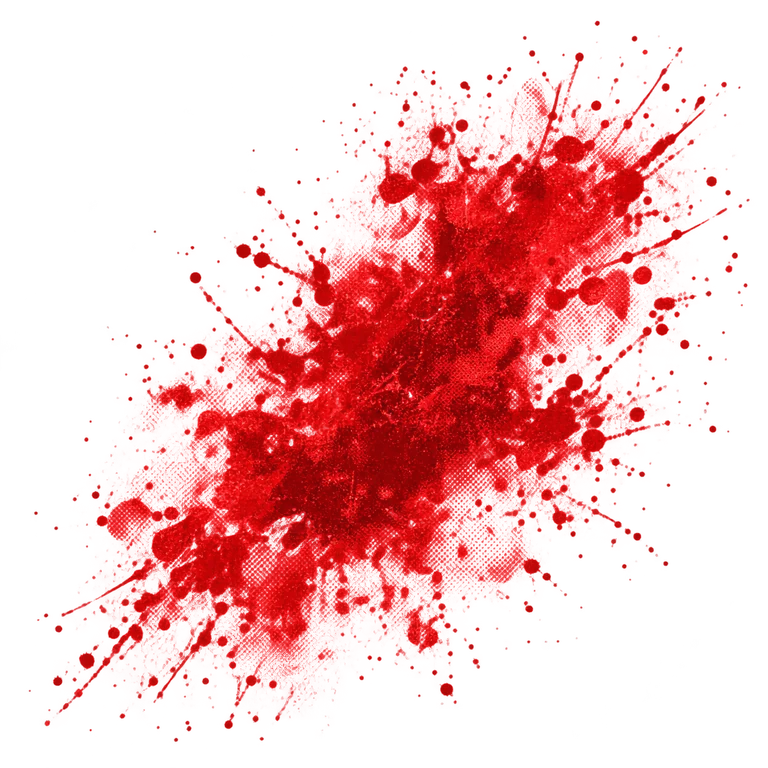
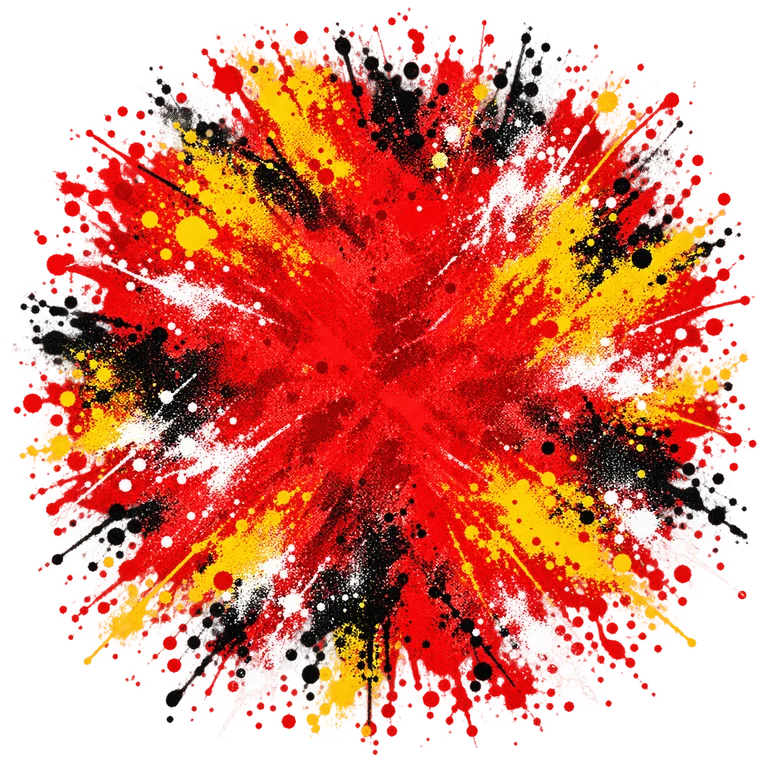
Center Medicine Wheel splatter behind broadcast artwork

diff --git a/index.html b/index.html
@@ -1,5 +1,5 @@
 <!DOCTYPE html>
-<html lang="en"><head><meta charset="utf-8"><meta name="viewport" content="width=device-width, initial-scale=1, viewport-fit=cover"><meta name="theme-color" content="#0d1117"><meta name="dfl-app-version" content="1.315.0"><title>DFL HQ</title><link rel="manifest" href="manifest.json"><link rel="icon" href="icons/icon-192.png"><link rel="apple-touch-icon" href="icons/apple-touch-icon.png"><meta name="apple-mobile-web-app-capable" content="yes"><meta name="apple-mobile-web-app-status-bar-style" content="black-translucent"><meta name="apple-mobile-web-app-title" content="DFL HQ"><link rel="preload" href="fonts/rajdhani-700.woff2" as="font" type="font/woff2" crossorigin><link rel="stylesheet" href="css/tokens.css"><link rel="stylesheet" href="css/style.css"><link rel="stylesheet" href="css/ui.css"><link rel="stylesheet" href="css/screens.css"><link rel="stylesheet" href="css/marquee.css"><link rel="stylesheet" href="css/stage.css"><link rel="stylesheet" href="css/splash-loading.css"><link rel="stylesheet" href="css/home.css"><link rel="stylesheet" href="css/breaking-trade.css"><link rel="stylesheet" href="css/update-gate.css"><link rel="stylesheet" href="css/power-pulse-system.css?v=1.315.0"><link rel="stylesheet" href="css/game-day-watch.css?v=1.315.0"><link rel="stylesheet" href="css/share-preview.css?v=1.315.0"><link rel="stylesheet" href="css/connected-experience.css?v=1.315.0"><link rel="stylesheet" href="css/home-editorial.css?v=1.315.0"><link rel="stylesheet" href="css/home-broadcast-design.css?v=1.315.0"><link rel="stylesheet" href="css/nav-neutral.css?v=1.315.0" data-dfl-nav-neutral="1"><link rel="stylesheet" href="css/home-newspaper.css?v=1.315.0"><link rel="stylesheet" href="css/app-shell.css?v=1.315.0"></head><body><!-- The icon gradient. An SVG cannot take a CSS gradient the way text can, so the glyphs reference this by id and its two stops are driven by the palette in css/style.css. aria-hidden and zero-sized: it draws nothing itself and must never be read out or take up space. --><svg width="0" height="0" aria-hidden="true" focusable="false" style="position:absolute;pointer-events:none"><defs><linearGradient id="dfl-ico-grad" x1="0" y1="0" x2="1" y2="1"><stop class="dfl-ico-stop-a" offset="0"/><stop class="dfl-ico-stop-b" offset="1"/></linearGradient><linearGradient id="dfl-gold-grad" x1="0" y1="0" x2="1" y2="1"><stop class="dfl-gold-a" offset="0"/><stop class="dfl-gold-b" offset=".45"/><stop class="dfl-gold-c" offset=".55"/><stop class="dfl-gold-d" offset="1"/></linearGradient><linearGradient id="dfl-steel-grad" x1="0" y1="0" x2="0" y2="1"><stop class="dfl-steel-a" offset="0"/><stop class="dfl-steel-b" offset=".42"/><stop class="dfl-steel-c" offset=".56"/><stop class="dfl-steel-d" offset="1"/></linearGradient></defs></svg>
+<html lang="en"><head><meta charset="utf-8"><meta name="viewport" content="width=device-width, initial-scale=1, viewport-fit=cover"><meta name="theme-color" content="#0d1117"><meta name="dfl-app-version" content="1.316.0"><title>DFL HQ</title><link rel="manifest" href="manifest.json"><link rel="icon" href="icons/icon-192.png"><link rel="apple-touch-icon" href="icons/apple-touch-icon.png"><meta name="apple-mobile-web-app-capable" content="yes"><meta name="apple-mobile-web-app-status-bar-style" content="black-translucent"><meta name="apple-mobile-web-app-title" content="DFL HQ"><link rel="preload" href="fonts/rajdhani-700.woff2" as="font" type="font/woff2" crossorigin><link rel="stylesheet" href="css/tokens.css"><link rel="stylesheet" href="css/style.css"><link rel="stylesheet" href="css/ui.css"><link rel="stylesheet" href="css/screens.css"><link rel="stylesheet" href="css/marquee.css"><link rel="stylesheet" href="css/stage.css"><link rel="stylesheet" href="css/splash-loading.css"><link rel="stylesheet" href="css/home.css"><link rel="stylesheet" href="css/breaking-trade.css"><link rel="stylesheet" href="css/update-gate.css"><link rel="stylesheet" href="css/power-pulse-system.css?v=1.316.0"><link rel="stylesheet" href="css/game-day-watch.css?v=1.316.0"><link rel="stylesheet" href="css/share-preview.css?v=1.316.0"><link rel="stylesheet" href="css/connected-experience.css?v=1.316.0"><link rel="stylesheet" href="css/home-editorial.css?v=1.316.0"><link rel="stylesheet" href="css/home-broadcast-design.css?v=1.316.0"><link rel="stylesheet" href="css/nav-neutral.css?v=1.316.0" data-dfl-nav-neutral="1"><link rel="stylesheet" href="css/home-newspaper.css?v=1.316.0"><link rel="stylesheet" href="css/app-shell.css?v=1.316.0"></head><body><!-- The icon gradient. An SVG cannot take a CSS gradient the way text can, so the glyphs reference this by id and its two stops are driven by the palette in css/style.css. aria-hidden and zero-sized: it draws nothing itself and must never be read out or take up space. --><svg width="0" height="0" aria-hidden="true" focusable="false" style="position:absolute;pointer-events:none"><defs><linearGradient id="dfl-ico-grad" x1="0" y1="0" x2="1" y2="1"><stop class="dfl-ico-stop-a" offset="0"/><stop class="dfl-ico-stop-b" offset="1"/></linearGradient><linearGradient id="dfl-gold-grad" x1="0" y1="0" x2="1" y2="1"><stop class="dfl-gold-a" offset="0"/><stop class="dfl-gold-b" offset=".45"/><stop class="dfl-gold-c" offset=".55"/><stop class="dfl-gold-d" offset="1"/></linearGradient><linearGradient id="dfl-steel-grad" x1="0" y1="0" x2="0" y2="1"><stop class="dfl-steel-a" offset="0"/><stop class="dfl-steel-b" offset=".42"/><stop class="dfl-steel-c" offset=".56"/><stop class="dfl-steel-d" offset="1"/></linearGradient></defs></svg>
 <script>
 /* This must stay inline: an external guard could itself be served from the old
    app cache. It makes the HTML, active worker, and JavaScript release agree

diff --git a/sw.js b/sw.js
@@ -1,15 +1,15 @@
 // DFL HQ service worker
-const CACHE_NAME = "dfl-hq-v1.315.0";
+const CACHE_NAME = "dfl-hq-v1.316.0";
 const APP_CACHE_PREFIX = "dfl-hq-v";
 const CDN_HOSTS = new Set(["cdn.jsdelivr.net","fonts.googleapis.com","fonts.gstatic.com","a.espncdn.com"]);
 const APP_SHELL = [
-  "./css/app-shell.css?v=1.315.0",
-  "./css/home-broadcast-design.css?v=1.315.0","./assets/home-broadcast-stadium.webp","./css/home-newspaper.css?v=1.315.0","./assets/dfl-daily-hero.webp","./assets/dfl-daily-crest.webp","./assets/dfl-daily-splatter.webp","./assets/dfl-daily-champion.webp","./assets/dfl-daily-chip-eater.webp","./assets/dfl-daily-archive.webp","./assets/dfl-daily-rivalry.webp","./assets/dfl-daily-paper.webp","./assets/dfl-daily-wordmark.webp","./assets/dfl-daily-wordmark-medicine.webp","./assets/dfl-daily-ten.webp","./assets/dfl-daily-headline.webp","./icons/dfl-seal-heritage-512.webp","./js/home-presentation.js",
+  "./css/app-shell.css?v=1.316.0",
+  "./css/home-broadcast-design.css?v=1.316.0","./assets/home-broadcast-stadium.webp","./css/home-newspaper.css?v=1.316.0","./assets/dfl-daily-hero.webp","./assets/dfl-daily-crest.webp","./assets/dfl-daily-splatter.webp","./assets/dfl-daily-champion.webp","./assets/dfl-daily-chip-eater.webp","./assets/dfl-daily-archive.webp","./assets/dfl-daily-rivalry.webp","./assets/dfl-daily-paper.webp","./assets/dfl-daily-wordmark.webp","./assets/dfl-daily-wordmark-medicine.webp","./assets/dfl-daily-ten.webp","./assets/dfl-daily-headline.webp","./icons/dfl-seal-heritage-512.webp","./js/home-presentation.js",
   "./assets/anniversary-ten.webp",
   "./js/league-results.js","./js/game-day-league.js","./js/game-day-dom.js","./js/game-day-panels.js","./js/game-day-moments.js","./js/game-day-moments-model.js",
-  "./js/player-card-actions.js","./js/player-card.js","./js/player-card-model.js","./js/player-card-data.js","./js/view-memory.js","./js/trade-draft.js","./js/rivalry-story.js","./js/rivalry-story-model.js","./js/performance-policy.js","./css/connected-experience.css?v=1.315.0",
-  "./js/share-editorial.js","./js/share-layouts.js","./js/share-layout-model.js","./js/share-export-model.js","./css/share-preview.css?v=1.315.0","./fonts/anton-regular.woff2","./images/share/editorial-paper.webp",
-  "./css/game-day-watch.css?v=1.315.0","./js/game-day-watch.js","./js/game-day-experience-model.js","./js/game-day-player-rows.js",
+  "./js/player-card-actions.js","./js/player-card.js","./js/player-card-model.js","./js/player-card-data.js","./js/view-memory.js","./js/trade-draft.js","./js/rivalry-story.js","./js/rivalry-story-model.js","./js/performance-policy.js","./css/connected-experience.css?v=1.316.0",
+  "./js/share-editorial.js","./js/share-layouts.js","./js/share-layout-model.js","./js/share-export-model.js","./css/share-preview.css?v=1.316.0","./fonts/anton-regular.woff2","./images/share/editorial-paper.webp",
+  "./css/game-day-watch.css?v=1.316.0","./js/game-day-watch.js","./js/game-day-experience-model.js","./js/game-day-player-rows.js",
   "./js/nfl-game-day.js","./js/game-day-model.js","./js/game-day.js","./js/game-day-score-motion.js","./js/game-day-matchup-share.js", "./js/matchup-banter.js", "./js/player-spotlight.js", "./js/player-spotlight-model.js", "./js/score-temperature.js", "./js/score-vfx.js", "./js/score-vfx-shaders.js",
   "./js/clubhouse-matchup-model.js","./js/clubhouse-matchup-cards.js","./js/clubhouse-matchup-live.js",
   "./js/page-disclosure.js", "./js/injury-report-model.js", "./js/injury-report-data.js", "./js/injury-report-ui.js",
@@ -103,8 +103,8 @@ const APP_SHELL = [
   "./js/trade-model-health.js",
   "./js/notification-device-state.js",
   "./js/service-worker.js","./js/pickem-state.js","./js/golf-event-status.js","./js/pages/calendar.js",
-  "./","./index.html","./manifest.json","./css/power-pulse-system.css?v=1.315.0","./css/stakes.css",
-  "./css/tokens.css","./css/style.css","./css/ui.css","./css/screens.css","./css/sportsbook.css","./js/sportsbook-slip.js","./js/sportsbook-pickem.js","./js/sleeper-prop-import.js","./js/sleeper-prop-import-ui.js","./css/golf.css","./css/home.css","./css/home-editorial.css?v=1.315.0","./css/breaking-trade.css","./css/nav-neutral.css?v=1.315.0","./css/update-gate.css",
+  "./","./index.html","./manifest.json","./css/power-pulse-system.css?v=1.316.0","./css/stakes.css",
+  "./css/tokens.css","./css/style.css","./css/ui.css","./css/screens.css","./css/sportsbook.css","./js/sportsbook-slip.js","./js/sportsbook-pickem.js","./js/sleeper-prop-import.js","./js/sleeper-prop-import-ui.js","./css/golf.css","./css/home.css","./css/home-editorial.css?v=1.316.0","./css/breaking-trade.css","./css/nav-neutral.css?v=1.316.0","./css/update-gate.css",
   "./js/config.js","./js/app.js","./js/season-nav.js","./js/router.js","./js/ui.js","./js/store.js","./js/supabase.js","./js/members.js","./js/member-preview.js","./js/member-lock.js",
   "./js/performance.js","./js/performance-findings.js","./js/pages/admin_performance.js","./js/pages/admin_operations.js","./js/breaking-trade.js","./js/custom-alerts.js","./js/league-state.js","./js/league-stakes.js","./js/weekly-briefing.js","./js/pages/stakes.js","./js/sleeper-sync-schedule.js",
   "./js/notifications.js","./js/notification-core.js","./js/notify-nudge.js","./js/profile-notifications.js","./js/weekly-outlook.js","./js/trade-desk.js","./js/pages/trade.js","./js/player-history.js","./js/season-outlook.js","./js/league-trajectory.js","./js/trend-panel.js","./js/weekly-outlook-panel.js","./css/weekly-outlook.css","./js/pages/notifications.js","./js/pages/admin_notifications.js","./css/notifications.css","./icons/badge-96.png",

diff --git a/css/home-newspaper.css b/css/home-newspaper.css
@@ -82,10 +82,10 @@ body:has(#view[data-route="home"]) {
 #home-wrap .bx-editorial-copy { position: relative; z-index: 1; width: 54%; min-width: 0; }
 #home-wrap .bx-editorial-illustration {
   position: absolute; right: 0; top: 10px; bottom: -42px;
-  width: 48%; pointer-events: none; mix-blend-mode: multiply;
+  width: 48%; pointer-events: none; isolation: isolate;
 }
-#home-wrap .bx-editorial-splatter { position: absolute; inset: 0; width: 100%; height: 100%; object-fit: cover; object-position: right bottom; }
-#home-wrap .bx-editorial-subject { position: absolute; right: 0; bottom: 0; width: 86%; height: 88%; overflow: hidden; }
+#home-wrap .bx-editorial-splatter { position: absolute; right: -4%; bottom: -8px; z-index: 0; width: 104%; height: 100%; object-fit: contain; object-position: right bottom; }
+#home-wrap .bx-editorial-subject { position: absolute; right: 3%; bottom: 0; z-index: 1; width: 86%; height: 88%; overflow: hidden; }
 #home-wrap :is(.bx-editorial-crest,.bx-editorial-portrait) { display: block; width: 100%; height: 100%; object-fit: contain; object-position: right bottom; transform: scale(var(--bx-zoom,1)); }
 #home-wrap .bx-art-logo .bx-editorial-subject { height: 82%; }
 #home-wrap .bx-pause { background: color-mix(in srgb,var(--paper) 94%,transparent); }

diff --git a/js/config.js b/js/config.js
@@ -49,7 +49,7 @@ export const FIRST_SYNCED_SEASON = 2019;
 export const LEGACY_SEASONS = Math.max(0, FIRST_SYNCED_SEASON - LEAGUE_FOUNDED);
 export const dflSeasonCount = (syncedSeasons = 0) => Math.max(0, Number(syncedSeasons) || 0) + LEGACY_SEASONS;
 const META_VERSION = globalThis.document?.querySelector('meta[name="dfl-app-version"]')?.content || "0";
-const RELEASE_FLOOR = "1.315.0";
+const RELEASE_FLOOR = "1.316.0";
 const newer = (a,b) => { const x=String(a).split(".").map(Number),y=String(b).split(".").map(Number); for(let i=0;i<Math.max(x.length,y.length);i++){ const d=(x[i]||0)-(y[i]||0); if(d)return d>0?a:b; } return a; };
 export const APP_VERSION = newer(META_VERSION, RELEASE_FLOOR);
 

diff --git a/tools/capture-home-review.py b/tools/capture-home-review.py
@@ -228,7 +228,9 @@ with sync_playwright() as p:
                 const stage=document.querySelector('.bx-stage'), slide=stage.querySelector('.bx-slide:not(.bx-leaving)'), box=slide.getBoundingClientRect();
                 const elements=[...slide.children,...slide.querySelectorAll('.bx-editorial-copy > *')].filter(e=>getComputedStyle(e).position!=='absolute');
                 const crest=slide.querySelector('.bx-editorial-subject img'), copy=slide.querySelector('.bx-editorial-copy'), artwork=slide.querySelector('.bx-editorial-subject')?.getBoundingClientRect(), splatter=slide.querySelector('.bx-editorial-illustration')?.getBoundingClientRect();
-                return {width:innerWidth,treatment:window.reviewDeck[Number(stage.querySelector('[aria-current="true"]').dataset.bxGo)].treatment,stageHeight:stage.offsetHeight,gamedayTop:document.querySelector('[data-home-gameday-slot]').getBoundingClientRect().top+scrollY,
+                const paint=slide.querySelector('.bx-editorial-splatter')?.getBoundingClientRect(), paintSize=paint ? Math.min(paint.width,paint.height) : 0, logoSize=artwork ? Math.min(artwork.width,artwork.height) : 0;
+                const logoBackdrop=slide.classList.contains('bx-art-logo') ? {paintSize,logoSize,centerX:Math.abs((paint.right-paintSize/2)-(artwork.right-logoSize/2)),centerY:Math.abs((paint.bottom-paintSize/2)-(artwork.bottom-logoSize/2)),subjectLayer:Number(getComputedStyle(crest.parentElement).zIndex),paintLayer:Number(getComputedStyle(slide.querySelector('.bx-editorial-splatter')).zIndex),blend:getComputedStyle(crest.parentElement.parentElement).mixBlendMode} : null;
+                return {logoBackdrop,width:innerWidth,treatment:window.reviewDeck[Number(stage.querySelector('[aria-current="true"]').dataset.bxGo)].treatment,stageHeight:stage.offsetHeight,gamedayTop:document.querySelector('[data-home-gameday-slot]').getBoundingClientRect().top+scrollY,
                     left:box.left,right:box.right,contentTop:box.top,contentBottom:box.bottom,
                     content:elements.map(e=>({class:e.className,left:e.getBoundingClientRect().left,right:e.getBoundingClientRect().right,top:e.getBoundingClientRect().top,bottom:e.getBoundingClientRect().bottom,scroll:e.scrollWidth,width:e.clientWidth})),
                     crest:crest ? {complete:crest.complete && slide.querySelector('.bx-editorial-splatter').complete,natural:crest.naturalWidth,left:artwork.left,right:artwork.right,top:artwork.top,bottom:artwork.bottom,copyRight:copy.getBoundingClientRect().right,src:crest.getAttribute('src'),splatterWidth:splatter.width,stageWidth:stage.clientWidth,stageBottom:stage.getBoundingClientRect().bottom} : null,
@@ -245,6 +247,9 @@ with sync_playwright() as p:
                 assert crest['complete'] and crest['natural'] > 0 and crest['left'] >= crest['copyRight'] and crest['right'] <= layout['right'] + 1 and crest['top'] >= layout['contentTop'] and crest['bottom'] <= crest['stageBottom'], f'Illustration overlaps copy or leaves the stage: {layout}'
             if layout['crest']:
                 assert layout['crest']['splatterWidth'] >= layout['crest']['stageWidth'] * .45, 'Splatter should fill the corner'
+            if layout['logoBackdrop']:
+                backdrop = layout['logoBackdrop']
+                assert backdrop['paintSize'] >= backdrop['logoSize'] * 1.1 and max(backdrop['centerX'], backdrop['centerY']) <= backdrop['paintSize'] * .18 and backdrop['subjectLayer'] > backdrop['paintLayer'] and backdrop['blend'] == 'normal', f'Paint is not centered behind the logo or loses its white ink: {layout}'
             page.evaluate("window.scrollTo({top:document.querySelector('.bx-stage').getBoundingClientRect().top+scrollY-115,behavior:'instant'})")
             contrast = page.evaluate('window.reviewTextContrast()')
             assert not contrast['failures'], f'Unreadable broadcast text: {contrast["failures"]}'
